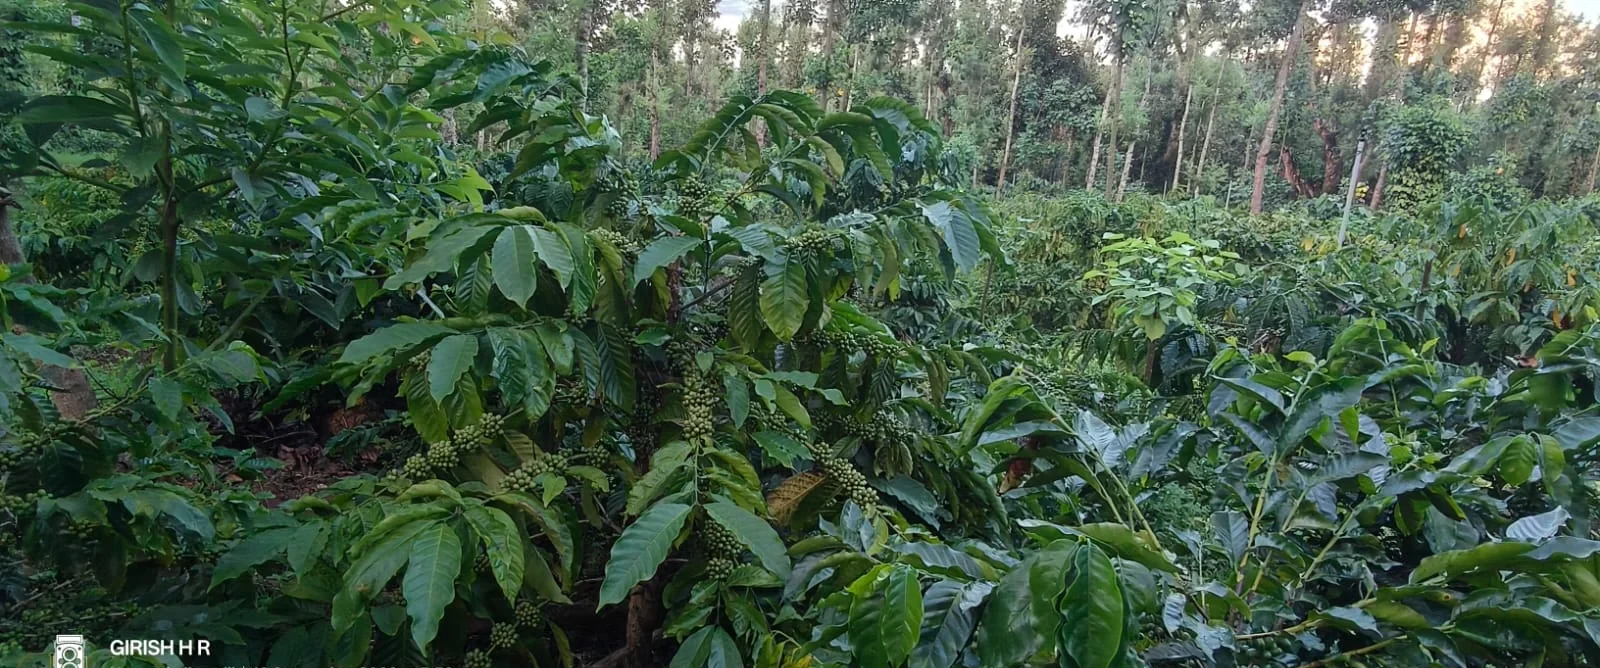
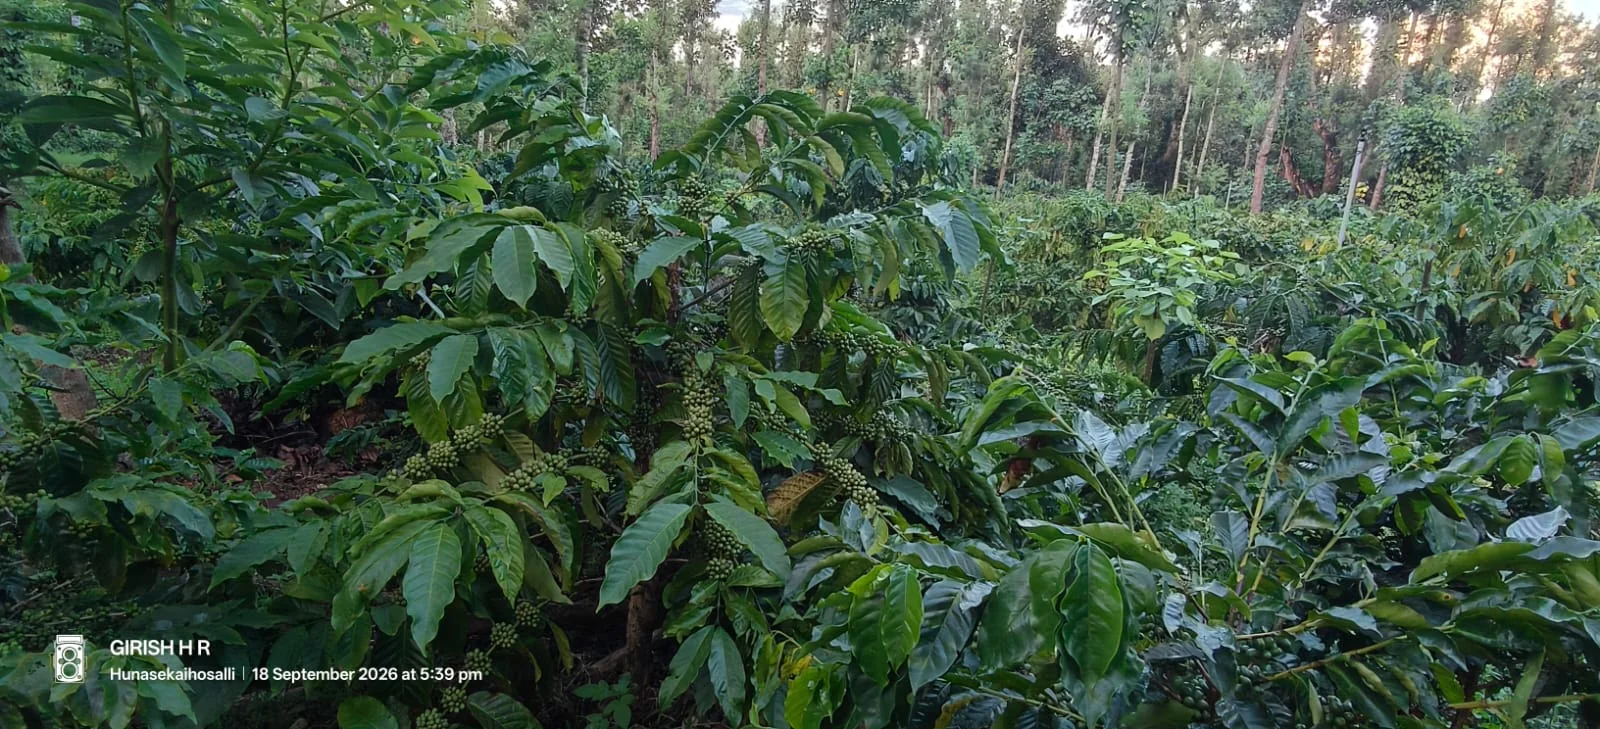
Add files via upload

diff --git a/index.html b/index.html
@@ -6,7 +6,7 @@
 <title>SAARTHA ESTATE | Coffee, Pepper, Soil &amp; Field Research</title>
 <style>
 :root{--g:#183b2a;--g2:#315d43;--b:#6b4630;--c:#f7f3ea;--w:#fffdf8;--m:#647068;--l:#ddd8cb;--gold:#b88a45;--soft:#edf1e9;--warn:#fbf7e9}
-*{box-sizing:border-box}html{scroll-behavior:smooth}body{margin:0;background:var(--c) url("coffee-pepper-hero.webp") center center/cover fixed;color:#26332b;font-family:Georgia,serif;line-height:1.7;position:relative}body:before{content:"";position:fixed;inset:0;background:rgba(20,45,30,.70);z-index:-1;pointer-events:none}
+*{box-sizing:border-box}html{scroll-behavior:smooth}body{margin:0;background:var(--c) url("coffee-pepper-hero.webp") center center/cover fixed;color:#26332b;font-family:Georgia,serif;line-height:1.7;position:relative}body:before{content:"";position:fixed;inset:0;background:rgba(20,45,30,.70);z-index:0;pointer-events:none}body>*{position:relative;z-index:1}
 nav{position:sticky;top:0;z-index:9;background:rgba(24,59,42,.98);padding:14px 5%;display:flex;justify-content:space-between;align-items:center;gap:15px}nav a{color:#edf2ec;text-decoration:none;margin-left:17px;font:13px Arial,sans-serif}.logo{font-weight:bold;letter-spacing:2px;white-space:nowrap}
 .hero{min-height:76vh;padding:80px 8%;display:flex;align-items:center;background:linear-gradient(115deg,rgba(23,60,42,.76),rgba(49,92,67,.58));color:white}.hero>div{max-width:900px}.k{font:13px Arial,sans-serif;letter-spacing:3px;text-transform:uppercase;color:#dbc18c}h1{font-size:clamp(50px,8vw,92px);line-height:.95;margin:18px 0}.hero p{font-size:20px;max-width:820px}.btn{display:inline-block;border:1px solid #dcc99d;padding:11px 19px;color:white;text-decoration:none;margin:8px 8px 0 0;font:14px Arial}
 section{max-width:1200px;margin:auto;padding:68px 8%;background:rgba(248,250,246,.93);border-radius:4px;margin-top:18px;margin-bottom:18px}h2{color:var(--g);font-size:40px;line-height:1.1;margin:0 0 12px}h3{line-height:1.2}.lead{font-size:19px;color:#536057;max-width:900px}.grid{display:grid;grid-template-columns:repeat(auto-fit,minmax(230px,1fr));gap:20px;margin-top:28px}.card{background:rgba(255,255,255,.94);border:1px solid var(--l);padding:24px}.card h3{color:var(--g2);margin-top:0}.stat{font:28px Arial,sans-serif;font-weight:bold;color:var(--b)}.small{font:13px Arial,sans-serif;color:var(--m)}.quote{font-size:25px;font-style:italic;color:var(--g);max-width:900px}.timeline{border-left:2px solid var(--gold);padding-left:24px}.item{margin:0 0 25px}.item strong{color:var(--b)}.flow{display:flex;flex-wrap:wrap;gap:8px;align-items:center;margin:15px 0}.flow span{background:var(--soft);border:1px solid #d6ddcf;padding:9px 12px}.pill{display:inline-block;padding:5px 10px;background:var(--soft);border:1px solid #d6ddcf;margin:3px;font:12px Arial,sans-serif;color:var(--g)}
@@ -257,12 +257,12 @@ Your browser does not support the video tag.
 <p class="lead">The website is being redesigned around the estate's own photographs. Coffee plants and pepper vines should form the visual identity, while crop, harvest, water and bioslurry photographs provide dated field evidence.</p>
 <div class="hero-photo"><img alt="Lush coffee plants and pepper vines at SAARTHA ESTATE" src="coffee-pepper-hero.webp"/><div class="hero-caption">Coffee + Pepper — the living landscape of SAARTHA ESTATE</div></div>
 <div class="photo-grid">
-<figure><img alt="Chandragiri Arabica coffee plants and harvested cherries" src="chandragiri-harvest.webp"/><figcaption>Chandragiri Arabica — plants, berries and harvest</figcaption></figure>
-<figure><img alt="CxR Robusta coffee plants and berries" src="cxr-robusta.webp"/><figcaption>CxR Robusta — canopy and berry load</figcaption></figure>
-<figure><img alt="Pepper vine growing on a support tree" src="pepper-vine.webp"/><figcaption>Black Pepper — vine growth, catkins and berries</figcaption></figure>
-<figure><img alt="Butter fruit avocado tree at the estate" src="butter-fruit.webp"/><figcaption>Butter Fruit (Avocado) — diversified estate crop</figcaption></figure>
-<figure><img alt="Bioslurry fertigation work at SAARTHA ESTATE" src="bioslurry-fertigation.webp"/><figcaption>Bioslurry — preparation, multiplication and fertigation</figcaption></figure>
-<figure><img alt="Girish H R, founder of SAARTHA ESTATE" src="founder-profile.webp"/><figcaption>Girish H R — founder and estate researcher</figcaption></figure>
+<figure><img alt="Coffee plantation at SAARTHA ESTATE, September 2026" src="coffee-plantation-03-sept-2026.webp" loading="lazy"/><figcaption>Coffee Estate — plantation view, 3 September 2026</figcaption></figure>
+<figure><img alt="Coffee berries at SAARTHA ESTATE, September 2026" src="coffee-berries-11-sept-2026.webp" loading="lazy"/><figcaption>Coffee — berry development, 11 September 2026</figcaption></figure>
+<figure><img alt="Black pepper vine on a living support tree" src="pepper-halwana-full-vine.webp" loading="lazy"/><figcaption>Black Pepper — established vine on a Halwana support tree</figcaption></figure>
+<figure><img alt="Close-up of black pepper spikes and foliage" src="pepper-vine-spikes-closeup.webp" loading="lazy"/><figcaption>Black Pepper — spikes and foliage close-up</figcaption></figure>
+<figure><img alt="Avocado tree carrying green fruits, photographed in May 2026" src="avocado-may-2026-full-tree.webp" loading="lazy"/><figcaption>Avocado — full tree with fruit, May 2026</figcaption></figure>
+<figure><img alt="Close-up of green avocado fruit clusters, photographed in May 2026" src="avocado-may-2026-fruit-closeup.webp" loading="lazy"/><figcaption>Avocado — fruit clusters, May 2026</figcaption></figure>
 </div>
 <p class="note"><b>Important:</b> These image filenames are reserved for the user's own estate photographs. They should be replaced with the actual uploaded photographs before publishing; no stock image should be presented as an SAARTHA ESTATE field photograph.</p>
 </section><section id="gallery">
